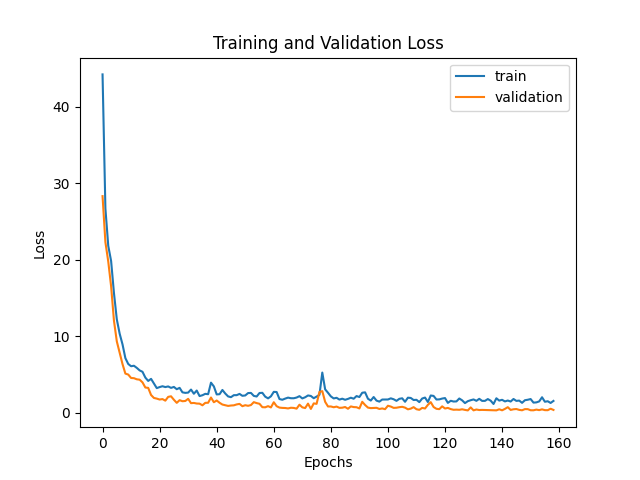
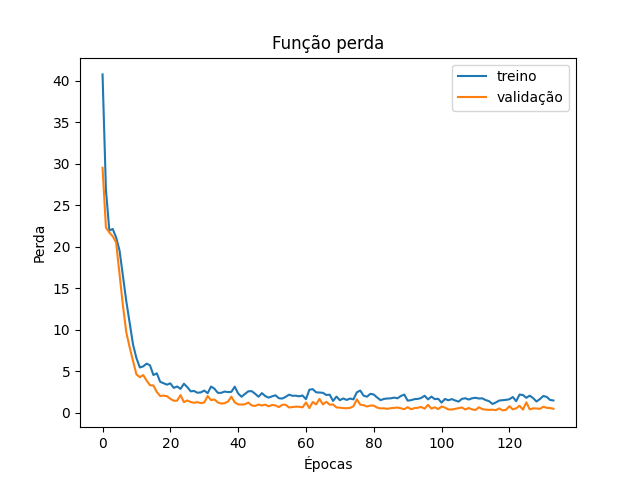
feat: 7adjusted model figures

diff --git a/superficie_seletiva_frequencia/model/model_evaluation.py b/superficie_seletiva_frequencia/model/model_evaluation.py
@@ -42,7 +42,7 @@ print(f'MAR - BW: {mae_bw}')
 plt.plot(history['loss'], label='treino')
 plt.plot(history['val_loss'], label='validação')
 plt.legend()
-plt.yscale('log')
+# plt.yscale('log')
 plt.xlabel('Épocas')
 plt.ylabel('Perda')
 plt.title('Função perda')
@@ -50,11 +50,11 @@ plt.show()
 
 
 # modelo com dropout
-# MSE - RF:  0.6065658323951434
-# R2 - RF:  0.987287691109852
+# MSE - RF:  0.7722266466227126
+# R2 - RF:  0.9838157984825694
 
-# MSE - BW:  0.11942886781383846
-# R2 - BW:  0.9622234882697579
+# MSE - BW:  0.13511233346835214
+# R2 - BW:  0.9572626556409826
 
-# MAE - RF: 0.4683645963668823
-# MAR - BW: 0.2840098457203971
+# MAE - RF: 0.5195303360621134
+# MAR - BW: 0.30265263716379803
